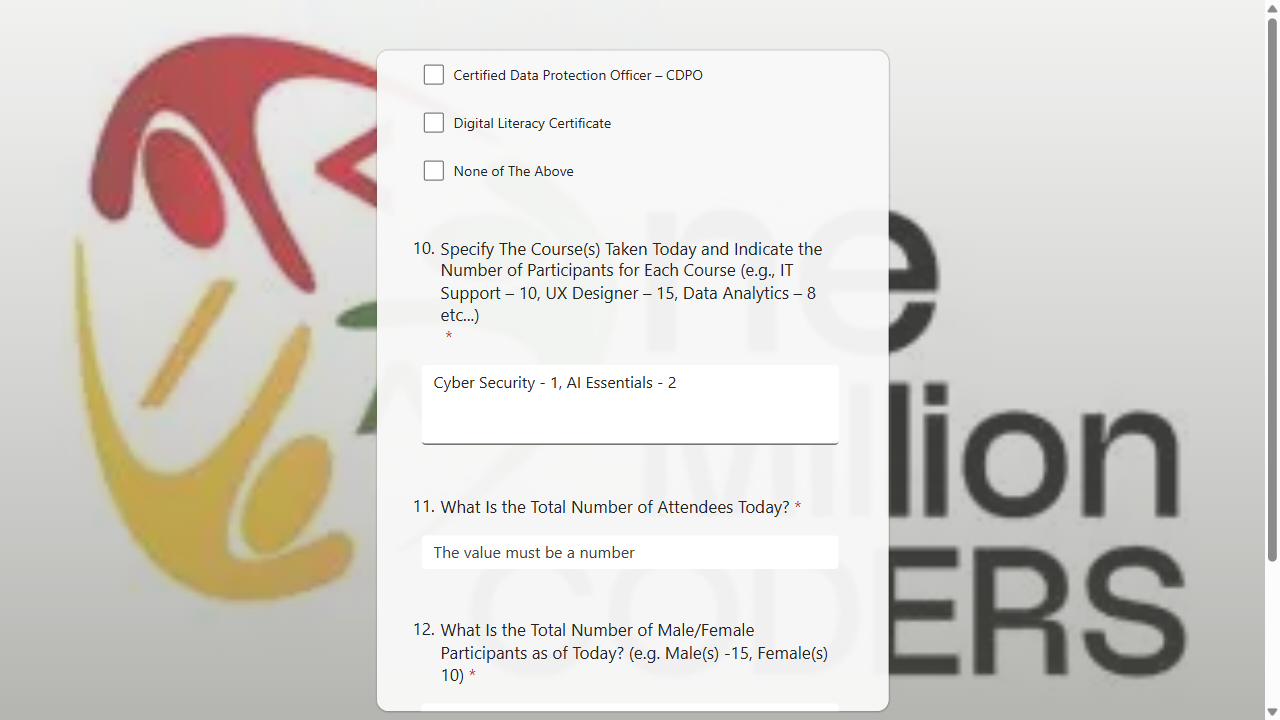
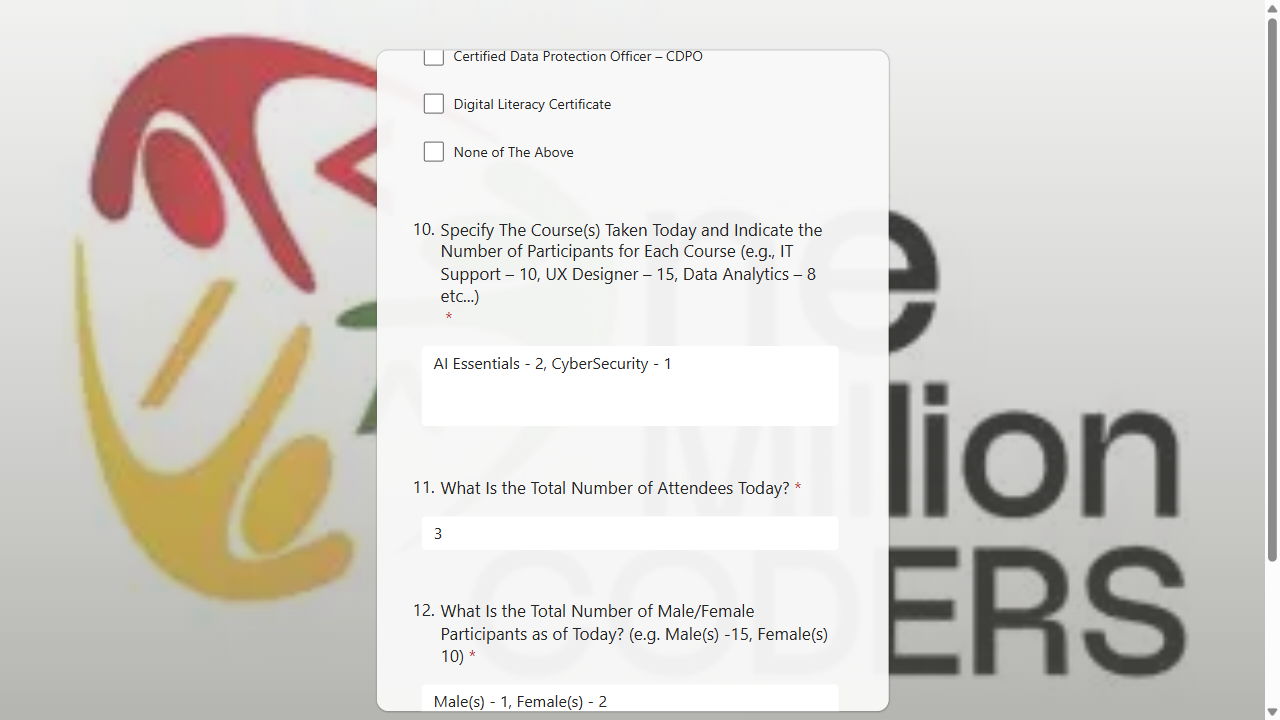
done with form filling

diff --git a/daily_report/main.py b/daily_report/main.py
@@ -83,9 +83,21 @@ with sync_playwright() as p:
         formatted_text = ", ".join(courses)
         print(formatted_text)
         course_taken.fill(formatted_text)
-        # for c in courses:
-        #     print(c)
-        #     course_taken.fill(c)
+
+        # Number of attendees per day
+        attendees = input('Enter the number of Attendees Today: ')
+        attendees_no = page.get_by_label("What is the Total Number of Attendees Today?")
+        attendees_no.fill(attendees)
+
+        # Number of males and females
+        females_count = input("Enter number of Female(s): ")
+        male_count = input("Enter number of Male(s): ")
+
+        formatted_gender_text = f"Male(s) - {male_count}, Female(s) - {females_count}"
+
+        gender_count = page.get_by_role('textbox', name="What Is the Total Number of Male/Female Participants as of Today? (e.g. Male(s) -15, Female(s) 10)")
+        gender_count.fill(formatted_gender_text)
+
 
 
     except Exception as e:
